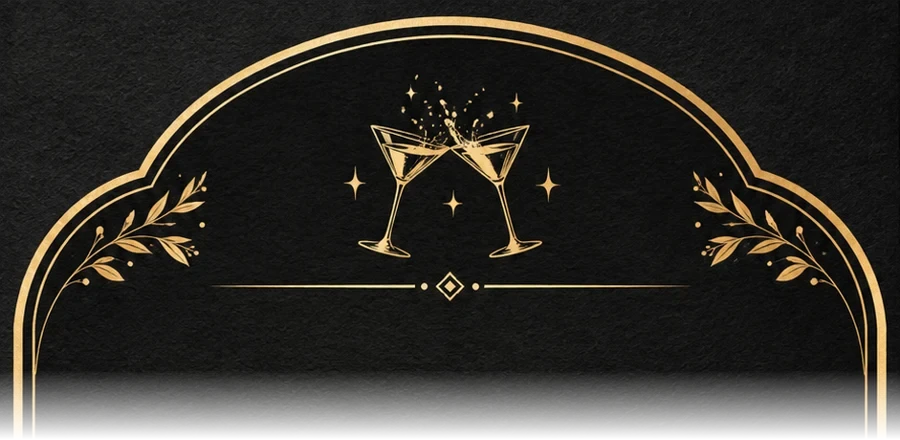
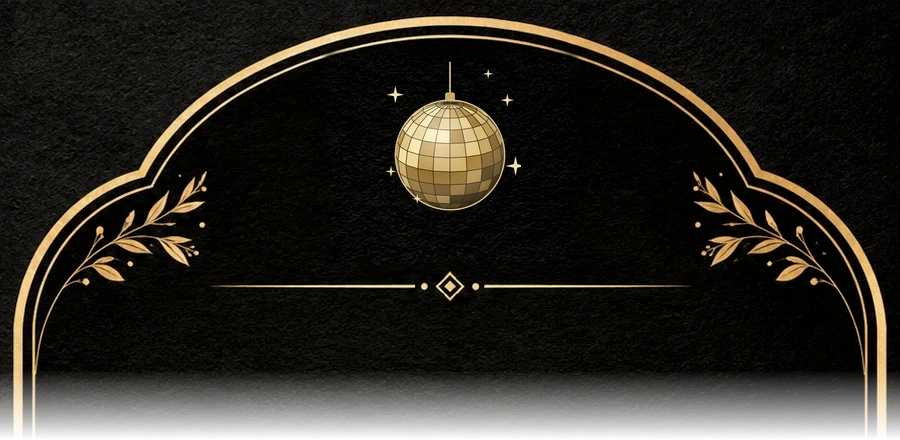
first commit

diff --git a/index.html b/index.html
@@ -44,11 +44,11 @@
     <button class="skip" id="skipBtn" type="button">Skip</button>
   </section>
 
-  <button id="music" type="button" hidden aria-label="Mute music" aria-pressed="false">♪</button><audio id="audio" loop preload="none"></audio>
+  <button id="music" type="button" hidden aria-label="Mute music" aria-pressed="false">♪</button><audio id="audio" loop preload="auto" autoplay playsinline></audio>
 <main class="doc" id="doc" tabindex="-1">
 <section class="page cover reveal" aria-label="Introduction"><div class="pi"><h1 class="tt sc">Four Celebrations</h1><p class="sb">One Beautiful Beginning</p><i class="dv"></i><p class="wd">We joyfully invite you to share in four beautiful celebrations as we begin our journey together.</p><p class="nm">Derick Mathew<span class="amp">&amp;</span>Christina Cherian</p><p class="dt">2–9 January 2027</p></div></section>
 <section class="page ev eng reveal" aria-label="Engagement"><div class="pi"><h2 class="tt">Engagement</h2><p class="sb">The Engagement Ceremony Of</p><div class="nm" aria-label="Derick Mathew and Christina Cherian">Derick Mathew<span class="amp">&amp;</span>Christina Cherian</div><p class="vs">“So they are no longer two, but one flesh. Therefore what God has joined together, let no one separate.”<b>Matthew 19:6</b></p><i class="dv"></i><p class="dt">Saturday, 2 January 2027</p><p class="tm">2:30 PM</p><div class="vb"><p class="lb">Engagement Church</p><p class="vn">St. Thomas Syro-Malabar Church</p><p class="ad">Kottakkavu, North Paravur</p><a class="btn" target="_blank" rel="noopener noreferrer" href="https://www.google.com/maps/search/?api=1&query=St+Thomas+Syro+Malabar+Church+Kottakkavu+North+Paravur">View Church Location</a></div><div class="vb"><p class="lb">Engagement Reception</p><p class="vn">One Kochi</p><p class="ad">Airport Road, Nedumbassery, Kochi</p><a class="btn" target="_blank" rel="noopener noreferrer" href="https://www.google.com/maps/search/?api=1&query=One+Kochi+Airport+Road+Nedumbassery">View Reception Location</a></div></div></section>
-<section class="page ev cok reveal" aria-label="Cocktail Party"><div class="pi"><p class="lb">You are cordially invited</p><h2 class="tt">Cocktail Party</h2><p class="sb">An Exclusive Celebration</p><p class="vs">Good food, great company, a little sparkle, and an evening of unforgettable memories.</p><p class="dt">Tuesday, 5 January 2027</p><p class="tm">5:00 PM</p><p class="lb">Venue</p><p class="vn">Cotton Tree</p><p class="ad">Achanpady</p><p class="lb">Dress Code</p><p class="dc">BLING</p><a class="btn" target="_blank" rel="noopener noreferrer" href="https://www.google.com/maps/search/?api=1&query=Cotton+Tree+Achanpady+Kerala">View Location</a></div></section>
+<section class="page ev cok reveal" aria-label="Cocktail Party"><div class="pi"><p class="lb">You are cordially invited</p><h2 class="tt">Cocktail Party</h2><p class="sb">An Exclusive Celebration</p><p class="vs">A night full of fun, games, disco and unforgettable memories.</p><p class="dt">Tuesday, 5 January 2027</p><p class="tm">5:00 PM</p><p class="lb">Venue</p><p class="vn">Cotton Tree</p><p class="ad">Achanpady</p><p class="lb">Dress Code</p><p class="dc">BLING</p><a class="btn" target="_blank" rel="noopener noreferrer" href="https://www.google.com/maps/search/?api=1&query=Cotton+Tree+Achanpady+Kerala">View Location</a><img class="gl" src="assets/cards/cocktail-glasses.webp" alt="" width="216" height="184"></div></section>
 <section class="page ev mad reveal" aria-label="Madhuramveppu"><div class="pi"><p class="lb">Please join us for the traditional</p><h2 class="tt">Madhuramveppu</h2><p class="sb">A Celebration of Our Roots</p><p class="vs">Celebrating the sweetness of tradition, the warmth of family, and the vibrant spirit of Kerala.</p><i class="dv"></i><p class="dt">Thursday, 7 January 2027</p><p class="tm">6:00 PM</p><p class="vn">Mathew Kappil House</p><p class="ad">Kuttanad</p><p class="dc">Colourful Kerala Style</p><p class="lb">Dress Code</p><a class="btn" target="_blank" rel="noopener noreferrer" href="https://www.google.com/maps/search/?api=1&query=Kuttanad+Alappuzha+Kerala">View Location</a><p class="nt">Area search for Kuttanad — not the exact house location.</p></div></section>
 <section class="page ev wed reveal" aria-label="Wedding"><div class="pi"><h2 class="tt">Holy Matrimony</h2><p class="sb">We request the honour of your presence</p><div class="nm" aria-label="Derick Mathew and Christina Cherian">Derick Mathew<span class="amp">&amp;</span>Christina Cherian</div><i class="dv"></i><p class="lb">Saturday</p><p class="dt big">9 January 2027</p><div class="vb"><p class="lb">Wedding Ceremony</p><p class="tm">2:30 PM</p><p class="vn">St. Joseph Syro Malabar Church</p><p class="ad">Punnakunnam, Kuttanad, Alappuzha</p><a class="btn" target="_blank" rel="noopener noreferrer" href="https://www.google.com/maps/search/?api=1&query=St+Joseph+Syro+Malabar+Church+Punnakunnam+Kuttanad+Alappuzha">View Church Location</a></div><div class="vb"><p class="lb">Wedding Reception</p><p class="tm">6:00 PM</p><p class="vn">Vijaya International Convention Centre</p><p class="ad">Thiruvalla</p><a class="btn" target="_blank" rel="noopener noreferrer" href="https://www.google.com/maps/search/?api=1&query=Vijaya+International+Convention+Centre+Thiruvalla">View Reception Location</a></div></div></section>
 <section class="count reveal"><p class="lb">Counting down to the ceremony</p><div class="cd" role="timer" aria-live="off"><div><b id="d">00</b><span>Days</span></div><div><b id="h">00</b><span>Hours</span></div><div><b id="m">00</b><span>Minutes</span></div><div><b id="s">00</b><span>Seconds</span></div></div><i class="dv"></i><h2 class="tt sc">Four Celebrations</h2><p class="sb">Countless Memories</p><p class="lb">One Beautiful Beginning</p><i class="dv"></i><p class="wd">We look forward to celebrating these beautiful moments with you.</p><p class="lb">With Love</p><p class="nm">Derick &amp; Christina</p></section>

diff --git a/style.css b/style.css
@@ -144,7 +144,7 @@ body{min-height:100vh;color:var(--brown);font-family:var(--f-body);font-size:17p
 .count{--ink:#f3e6cf;--acc:#d9bc82;display:flex;flex-direction:column;align-items:center;gap:12px;padding:12vw 8vw 22vw;color:var(--ink)}.count .cd{margin:6px 0 26px}
 .count .tt.sc{font-size:clamp(40px,12vw,56px);color:#f1dcae}.count .sb{font-size:20px}.count .wd{font-size:17px;max-width:30ch;margin:0}.count .nm{font-size:clamp(34px,10vw,44px);color:#f1dcae}.count .lb{font-size:11px}.count .dv{width:140px}.count>*{margin-top:0}
 
-html.opened{background:radial-gradient(ellipse at 50% 30%,#6e1220 0%,#4a0a15 55%,#2e060d 100%) fixed #4a0a15}html.opened .backdrop{display:none}
+html.opened{background:#5e0a14 url(assets/maroon-bg.webp) center top/600px repeat}html.opened .backdrop{display:none}
 .count{--ink:#4a3028;--acc:#a07c34;color:var(--ink)}.count .lb{color:#a07c34}.count .cd b{color:#a07c34}.count .tt.sc,.count .nm{color:#a07c34}.count .cd span{color:#4a3028}
 .page{margin:0!important;box-shadow:none!important}
 .doc{box-shadow:0 0 40px rgba(0,0,0,.45)}
@@ -179,3 +179,9 @@ html.opened{background:radial-gradient(ellipse at 50% 30%,#6e1220 0%,#4a0a15 55%
 .eng.ev{--pt:41cqw;--pb:30cqw}
 .wed.ev{--pt:44cqw;--pb:30cqw}
 .eng.ev .dt{margin-top:.6cqw}
+
+/* Cocktail: champagne glasses at the foot, richer velvet-black */
+.cok .gl{display:block;width:25cqw;height:auto;margin-top:4cqw}
+.cok.ev{background-color:#070707}
+.cok.ev::before{content:"";position:absolute;inset:0;pointer-events:none;z-index:0;background:radial-gradient(ellipse 75% 40% at 50% 34%,rgba(150,115,55,.13),transparent 72%),radial-gradient(ellipse 120% 60% at 50% 100%,rgba(0,0,0,.35),transparent 70%)}
+.cok .pi{position:relative;z-index:1}

diff --git a/script.js b/script.js
@@ -29,7 +29,17 @@
   var au=document.getElementById('audio'),mb=document.getElementById('music');
   au.src='assets/music.mp3';
   mb.hidden=false;
-  function startMusic(){ au.play().catch(function(){}); }
+  var musicOn=false;
+  function startMusic(){
+    if(musicOn) return;
+    var pr=au.play();
+    if(pr&&pr.then){pr.then(function(){musicOn=true;unbind();}).catch(function(){});}else{musicOn=true;unbind();}
+  }
+  /* Browsers block sound until the visitor interacts, so try on load, then on the very first tap/click/key/scroll */
+  var evs=['pointerdown','touchstart','touchend','click','keydown','wheel','scroll'];
+  function unbind(){evs.forEach(function(e){window.removeEventListener(e,startMusic,true);});}
+  evs.forEach(function(e){window.addEventListener(e,startMusic,{capture:true,passive:true});});
+  startMusic();
   mb.addEventListener('click',function(){var m=!au.muted;au.muted=m;mb.setAttribute('aria-pressed',m);mb.setAttribute('aria-label',m?'Unmute music':'Mute music');if(!m&&au.paused)au.play().catch(function(){});});
   var T=new Date('2027-01-09T14:30:00+05:30').getTime(),p=function(n){return String(n).padStart(2,'0')};
   function tick(){var s=Math.floor(Math.max(0,T-Date.now())/1e3);
